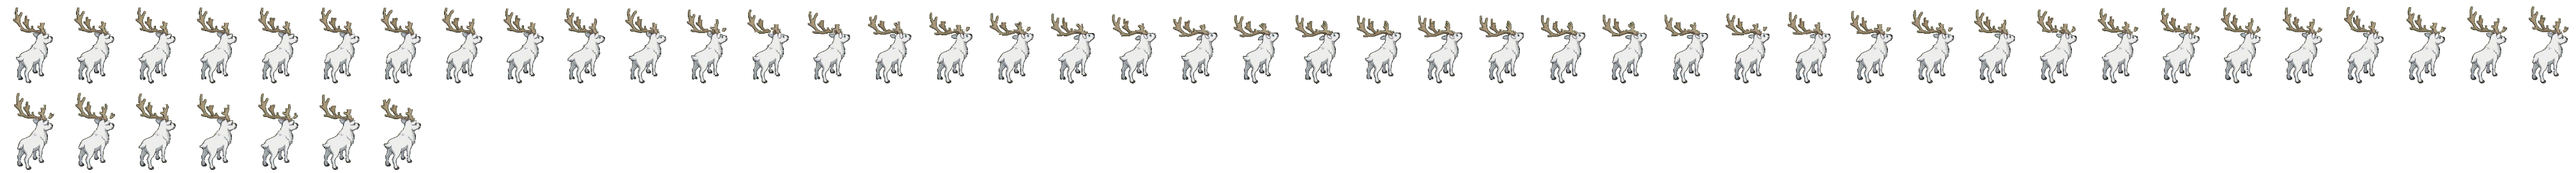
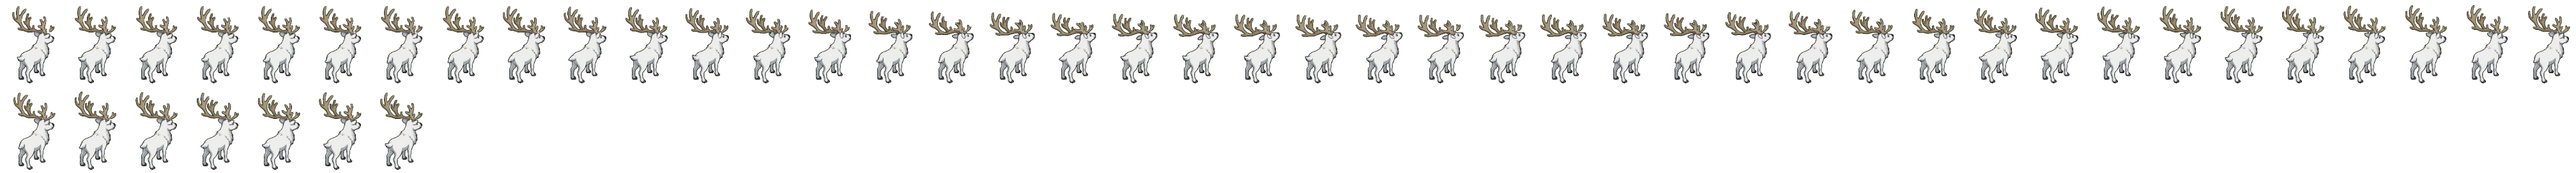
Weißes Rentier mit ganzem Geweih, Glastür zum Pinguinbecken vom Weg, Herden mit mehr Abstand und Weg um den Teich, Buden bringen weniger Herzen

Changed region(s): [[0.0, 0.0294, 1.0, 0.4706], [0.0, 0.5588, 0.1875, 0.9706]]

diff --git a/src/animals/penLife.js b/src/animals/penLife.js
@@ -1,7 +1,7 @@
 import Phaser from 'phaser';
 import { blockedAt } from '../world/collision.js';
 import { charAt, objectAt } from '../world/map.js';
-import { tileToWorld } from '../world/iso.js';
+import { tileToWorld, worldToTile } from '../world/iso.js';
 
 // Leben im Gehege (docs/plan-gehege-leben.md, Schritt 1): Lieblingsplätze, Herden, Ruhephasen und kleine Momente
 // (hüpfen, rennen, schütteln, trinken). Nur Tweens und vorhandene Bilder, kein Bonus, nur zum Anschauen.
@@ -19,6 +19,8 @@ const SHAKE = new Set(['sheep', 'goat', 'pig', 'cow', 'deer', 'antelope', 'zebra
 const BUSY = ['digging', 'sit', 'grazing', 'sleeping', 'jumping', 'tree', 'eating', 'drinking', 'dozing', 'perched', 'flying', 'penFlight', 'penClimb', 'penDrink', 'penPile', 'mudSpot', 'lick', 'noseBall', 'fly', 'trip', 'jump', 'plop', 'running', 'scared', 'toPerch', 'bed'];
 
 const HERD_R = 70; // so weit (Kachelmaß, y doppelt) darf sich ein Herdentier vom Leittier entfernen
+const HERD_SPACE = 34; // so viel Abstand (Kachelmaß, y doppelt) halten Herdentiere im Stehen mindestens zueinander
+const HERD_SLOT = [36, 62]; // Abstand des eigenen Platzes ums Leittier (jedes Tier hat seine Richtung, siehe herdSlot)
 const BABY_R = 34; // Tierbaby bleibt dicht bei einem Erwachsenen
 const SPOT_CHANCE = 0.5; // so oft geht ein Tier zu einem Lieblingsplatz statt irgendwohin
 const SPOT_REST = 1.8; // am Lieblingsplatz so viel länger stehen
@@ -139,6 +141,67 @@ function goToward(a, x, y, maxTime) {
   a.wanderTime = Math.max(0.3, Math.min(maxTime, d / a.kind.speed));
 }
 
+// eigener Platz eines Herdentiers ums Leittier (Richtung und Abstand, bleibt für das Tier gleich)
+function herdSlot(a) {
+  return (a.herdSlot ??= { ang: Math.random() * Math.PI * 2, r: Phaser.Math.Between(...HERD_SLOT) });
+}
+
+// kommt es in gerader Linie hin (alle 12 Pixel geprüft)?
+function clearLine(a, x, y) {
+  const d = Math.hypot(x - a.x, y - a.y);
+  const n = Math.ceil(d / 12);
+  for (let i = 1; i < n; i++) if (a.blocked(a.x + ((x - a.x) * i) / n, a.y + ((y - a.y) * i) / n)) return false;
+  return true;
+}
+
+// nächster Zwischenpunkt auf dem Weg durchs Gehege (Breitensuche über die Kacheln, auf denen es laufen darf): die
+// fernste Kachel des Wegs, die es noch in gerader Linie erreicht; null, wenn es keinen Weg gibt
+const PATH_MAX = 1500; // so viele Kacheln höchstens absuchen (Tablet)
+function waypoint(a, x, y) {
+  const from = worldToTile(a.x, a.y);
+  const to = worldToTile(x, y);
+  const key = (t) => t.tx + ',' + t.ty;
+  const prev = new Map([[key(from), null]]);
+  const queue = [from];
+  let found = null;
+  for (let i = 0; i < queue.length && i < PATH_MAX; i++) {
+    const t = queue[i];
+    if (t.tx === to.tx && t.ty === to.ty) {
+      found = t;
+      break;
+    }
+    for (const [dx, dy] of [[1, 0], [-1, 0], [0, 1], [0, -1]]) {
+      const n = { tx: t.tx + dx, ty: t.ty + dy };
+      const k = key(n);
+      if (prev.has(k)) continue;
+      const w = tileToWorld(n.tx, n.ty);
+      if (a.blocked(w.x, w.y) && !(n.tx === to.tx && n.ty === to.ty)) continue;
+      prev.set(k, t);
+      queue.push(n);
+    }
+  }
+  if (!found) return null;
+  const path = [];
+  for (let t = found; t; t = prev.get(key(t))) path.unshift(t);
+  for (let i = path.length - 1; i > 0; i--) {
+    const w = tileToWorld(path[i].tx, path[i].ty);
+    if (i === 1 || clearLine(a, w.x, w.y)) return w;
+  }
+  return null;
+}
+
+// steht ein anderes Tier der Herde zu dicht daneben? Dann dieses (sonst null)
+function crowdedBy(a) {
+  let best = null;
+  let bd = HERD_SPACE;
+  for (const b of a.scene.animals ?? []) {
+    if (b === a || b.species !== a.species || b.state !== 'penned' || b.enclosure !== a.enclosure || b.baby) continue;
+    const d = Math.hypot(b.x - a.x, (b.y - a.y) * 2);
+    if (d < bd) [best, bd] = [b, d];
+  }
+  return best;
+}
+
 function rest(a, time) {
   a.dirX = 0;
   a.dirY = 0;
@@ -176,9 +239,21 @@ export function penWander(a) {
       a.herdSeen = lead.herdTick;
       const d = Math.hypot(lead.x - a.x, (lead.y - a.y) * 2);
       if (d > HERD_R) {
-        goToward(a, lead.x + Phaser.Math.Between(-20, 20), lead.y + Phaser.Math.Between(-10, 10), 2.5);
+        // nicht alle auf denselben Fleck: jedes Tier zu seinem eigenen Platz rund ums Leittier
+        // (liegt etwas Großes dazwischen, z. B. der Teich: den Weg drumherum gehen, sonst bleibt es am Ufer hängen)
+        const s = herdSlot(a);
+        const tx = lead.x + Math.cos(s.ang) * s.r;
+        const ty = lead.y + (Math.sin(s.ang) * s.r) / 2;
+        const via = clearLine(a, lead.x, lead.y) ? null : waypoint(a, lead.x, lead.y);
+        if (via) goToward(a, via.x, via.y, 1.5);
+        else goToward(a, tx, ty, 2.5);
       } else if (!lead.dirX && !lead.dirY) {
-        rest(a, Math.max(0.5, lead.wanderTime + Phaser.Math.FloatBetween(-0.3, 1.2)));
+        // steht es zu dicht an einem anderen (z. B. alle am Wasser), ein Stück zur Seite rücken, sonst ausruhen
+        const c = crowdedBy(a);
+        if (c) {
+          const ang = c.x === a.x && c.y === a.y ? Math.random() * Math.PI * 2 : Math.atan2((a.y - c.y) * 2, a.x - c.x) + Phaser.Math.FloatBetween(-0.6, 0.6);
+          goToward(a, a.x + Math.cos(ang) * HERD_SPACE, a.y + (Math.sin(ang) * HERD_SPACE) / 2, 0.9);
+        } else rest(a, Math.max(0.5, lead.wanderTime + Phaser.Math.FloatBetween(-0.3, 1.2)));
       } else {
         const angle = Math.atan2(lead.dirY, lead.dirX) + Phaser.Math.FloatBetween(-0.35, 0.35);
         a.dirX = Math.cos(angle);

diff --git a/tools/prepare-characters.js b/tools/prepare-characters.js
@@ -1153,12 +1153,12 @@ const ANIMATIONS = [
   { src: 'Animation/Gorilla2 idle hinten.mp4', out: 'gorilla2_idle_back.png', every: 2, figureH: 81, frameW: 104, frameH: 96, feetY: 92 },
   // trommelt: Bild 0–14 anfangen, 15–27 durchgehend trommeln (Loop), 66–81 aufhören (Bild 65 gleicht Bild 15); siehe GORILLA2_DRUM in BootScene
   { src: 'Animation/Gorilla2 trommelt.mp4', out: 'gorilla2_drum.png', skip: [...Array(38).keys()].map((i) => i + 28).concat([...Array(13).keys()].map((i) => i + 82)), figureH: 82, frameW: 104, frameH: 96, feetY: 92 },
-  { src: 'Animation/Rentier2 läuft vorne.mp4', out: 'reindeer2_walk.png', dropShadowGreen: 18, dropGreyHalo: true, onlyFigure: true, keepParts: 0.004, despill: true, range: [13, 29], scale: 0.4, frameW: 96, frameH: 136, feetY: 131 },
-  { src: 'Animation/Rentier2 läuft hinten.mp4', out: 'reindeer2_walk_back.png', dropShadowGreen: 18, dropGreyHalo: true, onlyFigure: true, keepParts: 0.004, despill: true, range: [65, 91], scale: 0.4, frameW: 96, frameH: 136, feetY: 131 },
-  { src: 'Animation/Rentier2 rennt vorne.mp4', out: 'reindeer2_run.png', dropShadowGreen: 18, dropGreyHalo: true, onlyFigure: true, keepParts: 0.004, despill: true, range: [46, 59], scale: 0.4, frameW: 96, frameH: 136, feetY: 131 },
-  { src: 'Animation/Rentier2 rennt hinten.mp4', out: 'reindeer2_run_back.png', dropShadowGreen: 18, dropGreyHalo: true, onlyFigure: true, keepParts: 0.004, despill: true, range: [67, 78], scale: 0.4, frameW: 96, frameH: 136, feetY: 131 },
-  { src: 'Animation/Rentier2 idle vorne.mp4', out: 'reindeer2_idle.png', dropShadowGreen: 18, dropGreyHalo: true, onlyFigure: true, keepParts: 0.004, despill: true, every: 2, scale: 0.4, frameW: 96, frameH: 136, feetY: 131 },
-  { src: 'Animation/Rentier2 idle hinten.mp4', out: 'reindeer2_idle_back.png', dropShadowGreen: 18, dropGreyHalo: true, onlyFigure: true, keepParts: 0.004, despill: true, every: 2, scale: 0.4, frameW: 96, frameH: 136, feetY: 131 },
+  { src: 'Animation/Rentier2 läuft vorne.mp4', out: 'reindeer2_walk.png', dropShadowGreen: 18, onlyFigure: true, keepParts: 0.004, despill: 'edges', range: [13, 29], scale: 0.4, frameW: 96, frameH: 136, feetY: 131 },
+  { src: 'Animation/Rentier2 läuft hinten.mp4', out: 'reindeer2_walk_back.png', dropShadowGreen: 18, onlyFigure: true, keepParts: 0.004, despill: 'edges', range: [65, 91], scale: 0.4, frameW: 96, frameH: 136, feetY: 131 },
+  { src: 'Animation/Rentier2 rennt vorne.mp4', out: 'reindeer2_run.png', dropShadowGreen: 18, onlyFigure: true, keepParts: 0.004, despill: 'edges', range: [46, 59], scale: 0.4, frameW: 96, frameH: 136, feetY: 131 },
+  { src: 'Animation/Rentier2 rennt hinten.mp4', out: 'reindeer2_run_back.png', dropShadowGreen: 18, onlyFigure: true, keepParts: 0.004, despill: 'edges', range: [67, 78], scale: 0.4, frameW: 96, frameH: 136, feetY: 131 },
+  { src: 'Animation/Rentier2 idle vorne.mp4', out: 'reindeer2_idle.png', dropShadowGreen: 18, onlyFigure: true, keepParts: 0.004, despill: 'edges', every: 2, scale: 0.4, frameW: 96, frameH: 136, feetY: 131 },
+  { src: 'Animation/Rentier2 idle hinten.mp4', out: 'reindeer2_idle_back.png', dropShadowGreen: 18, onlyFigure: true, keepParts: 0.004, despill: 'edges', every: 2, scale: 0.4, frameW: 96, frameH: 136, feetY: 131 },
   // Zwergflusspferd, Pinselohrschwein, Fischertukan: Rahmen und Figurhöhe wie beim normalen Tier (das Zwergflusspferd
   // verkleinert das Spiel selbst, PYGMY_SCALE in Hippo.js). Überall der kürzeste nahtlose Loop (tools/find-loop.py),
   // auch beim Stehen: alle Bilder, aber langsam abgespielt (VIDEO_RATE in BootScene). Nilpferd läuft: Videos ohne Loop,
@@ -1220,7 +1220,8 @@ const ANIMATIONS = [
 // darkShadow: dunkelgrüne Schattenreste am Rand der Figur weg (siehe readVideo);
 // dropGreyHalo: halb durchsichtiges Dunkelgrau ohne Rotstich weg (Schatten, Rand eines Lichtscheins; Schneeleopard von hinten);
 // onlyFigure: Grünstichiges weg und je Bild nur das größte zusammenhängende Stück behalten (z. B. ohne die Atemwolke);
-// despill: grünen Schimmer auf hellem Fell neutralisieren, statt die Pixel wegzuwerfen (weißes Rentier);
+// despill: grünen Schimmer auf hellem Fell neutralisieren, statt die Pixel wegzuwerfen; 'edges': auch an dunkleren,
+// halb durchsichtigen Rändern (Geweihspitzen des weißen Rentiers; dort ohne dropGreyHalo, das sie sonst wegnimmt);
 // keepParts: dazu auch Stücke ab diesem Anteil am größten (Geweihhälfte am dünnen Steg, Rentier);
 // dropSteel: neutral graue, helle Pixel weg (eine Messerklinge; Kleidung und Fell sind wärmer getönt), den Umriss danach
 // entfernt onlyFigure
@@ -1322,7 +1323,7 @@ function loadGrid({ src, cols, rows, count, range, every = 1, skip = [], mirror 
     // dropShadowGreen und onlyFigure grünstichige Pixel wegwerfen; dunkelgrüne Schattenreste (wenig Rot/Blau) bleiben grün
     for (let k = 0; k < data.length; k += 4) {
       const rb = Math.max(data[k], data[k + 2]);
-      if (data[k + 3] && rb >= 110 && data[k + 1] > rb) data[k + 1] = rb;
+      if (data[k + 3] && (rb >= 110 || (despill === 'edges' && data[k + 1] - rb < 40)) && data[k + 1] > rb) data[k + 1] = rb;
     }
   }
   if (dropShadowGreen !== undefined) {

diff --git a/src/world/shops.js b/src/world/shops.js
@@ -10,13 +10,14 @@ import { game } from '../state.js';
 import { tr } from '../i18n.js';
 import { LEVELS, PARK_LEVELS } from './levels.js';
 
+// hearts: je Verkauf (28.11.2026 halbiert: der Eisstand allein brachte mehr als doppelt so viel wie das beste Tier)
 // stand/seller/items: Bilder (Bude, Verkäufer als 72×116-Bildstreifen, Snack in der Hand); icon für Statistik und Tafel
 export const SHOPS = [
-  { id: 'icecream', name: tr('Eisstand', 'Ice Cream Stand'), cost: 40, hearts: 2, icon: '🍦', stand: 'icecream_stand', seller: 'icecream_seller', items: ['icecream', 'icecream2', 'icecream3'] },
-  { id: 'popcorn', name: tr('Popcorn', 'Popcorn'), cost: 80, hearts: 2, icon: '🍿', stand: 'popcorn_stand', seller: 'popcorn_seller', items: ['popcorn'] },
-  { id: 'lemonade', name: tr('Limonade', 'Lemonade'), cost: 100, hearts: 2, icon: '🍋', stand: 'lemonade_stand', seller: 'lemonade_seller', items: ['lemonade'] },
-  { id: 'cottoncandy', name: tr('Zuckerwatte', 'Cotton Candy'), cost: 120, hearts: 3, icon: '🍭', stand: 'cottoncandy_stand', seller: 'cottoncandy_seller', items: ['cottoncandy'], blueprint: true },
-  { id: 'pretzel', name: tr('Brezeln', 'Pretzels'), cost: 150, hearts: 3, icon: '🥨', stand: 'pretzel_stand', seller: 'pretzel_seller', items: ['pretzel'], blueprint: true },
+  { id: 'icecream', name: tr('Eisstand', 'Ice Cream Stand'), cost: 40, hearts: 1, icon: '🍦', stand: 'icecream_stand', seller: 'icecream_seller', items: ['icecream', 'icecream2', 'icecream3'] },
+  { id: 'popcorn', name: tr('Popcorn', 'Popcorn'), cost: 80, hearts: 1, icon: '🍿', stand: 'popcorn_stand', seller: 'popcorn_seller', items: ['popcorn'] },
+  { id: 'lemonade', name: tr('Limonade', 'Lemonade'), cost: 100, hearts: 1, icon: '🍋', stand: 'lemonade_stand', seller: 'lemonade_seller', items: ['lemonade'] },
+  { id: 'cottoncandy', name: tr('Zuckerwatte', 'Cotton Candy'), cost: 120, hearts: 2, icon: '🍭', stand: 'cottoncandy_stand', seller: 'cottoncandy_seller', items: ['cottoncandy'], blueprint: true },
+  { id: 'pretzel', name: tr('Brezeln', 'Pretzels'), cost: 150, hearts: 2, icon: '🥨', stand: 'pretzel_stand', seller: 'pretzel_seller', items: ['pretzel'], blueprint: true },
   // Marktstand (Andres Bild, tools/deco-stand.py): 2×2 Kacheln, ohne Verkäufer-Figur und ohne Snack in der Hand
   { id: 'souvenir', name: tr('Blumen & Andenken', 'Flowers & Souvenirs'), cost: 120, hearts: 1, icon: '🌸', stand: 'deco_stand', seller: null, items: [], size: 2, originY: 0.778, scale: 1 },
 ];
@@ -42,7 +43,7 @@ export const sourceDef = (id) => shopDef(id) ?? (id === TEA.id ? TEA : id === WH
 // so viele Sachen kauft ein Besucher höchstens, und so wahrscheinlich geht er (beim Ankommen bzw. nach einem Gehege)
 // zu einer Bude, deren Sorte er noch nicht hatte
 export const MAX_BUYS = 2;
-export const SHOP_CHANCE = 0.4;
+export const SHOP_CHANCE = 0.3; // (war 0,4: zusammen mit 2 Herzen je Verkauf brachten die Buden mehr als jedes Tier)
 // solange man woanders ist: so oft kauft jeder Besucher pro Minute an jeder Bude seines Abschnitts
 export const AWAY_BUYS_PER_VISITOR_MINUTE = 0.25;
 

diff --git a/src/scenes/GardenScene.js b/src/scenes/GardenScene.js
@@ -1794,7 +1794,7 @@ export default class GardenScene extends Phaser.Scene {
       if (data.built) {
         const def = sourceDef(builtOn(data.built));
         if (def === WHEEL) this.time.delayedCall(350, () => this.showToast(tr(`${def.icon} Das Riesenrad dreht sich! Jede Fahrt bringt ${def.hearts} Herzen, und es kommen mehr Besucher.`, `${def.icon} The Ferris wheel is turning! Every ride brings ${def.hearts} hearts, and more visitors come.`)));
-        else if (def) this.time.delayedCall(350, () => this.showToast(tr(`${def.icon} ${def.name} ist fertig! Jeder Verkauf bringt ${def.hearts} Herzen.`, `${def.icon} ${def.name} is open! Every sale brings ${def.hearts} hearts.`)));
+        else if (def) this.time.delayedCall(350, () => this.showToast(tr(`${def.icon} ${def.name} ist fertig! Jeder Verkauf bringt ${def.hearts === 1 ? 'ein Herz' : `${def.hearts} Herzen`}.`, `${def.icon} ${def.name} is open! Every sale brings ${def.hearts === 1 ? 'one heart' : `${def.hearts} hearts`}.`)));
         this.time.delayedCall(1200, () => this.visitors?.sendToShop(data.built)); // gleich kauft jemand ein
       }
       if (data.seasonNote) this.showToast(data.seasonNote); // Wetterwechsel in der Savanne
@@ -5002,7 +5002,7 @@ export default class GardenScene extends Phaser.Scene {
       name: def.name,
       image: def.stand,
       cost: price(def.cost),
-      text: tr(`Jeder Verkauf bringt ${def.hearts} Herzen.`, `Every sale brings ${def.hearts} hearts.`),
+      text: tr(`Jeder Verkauf bringt ${def.hearts === 1 ? 'ein Herz' : `${def.hearts} Herzen`}.`, `Every sale brings ${def.hearts === 1 ? 'one heart' : `${def.hearts} hearts`}.`),
       blocked: storedBooths(LEVEL_ID).some((b) => b.kind === def.id)
         ? tr('liegt in der Bauen-Leiste', 'in your build bar')
         : hasShop(LEVEL_ID, def.id)
@@ -5543,7 +5543,7 @@ export default class GardenScene extends Phaser.Scene {
         name: def.name,
         icon: def.icon,
         cost: price(def.cost),
-        text: tr(`Jeder Verkauf bringt ${def.hearts} Herzen.`, `Every sale brings ${def.hearts} hearts.`),
+        text: tr(`Jeder Verkauf bringt ${def.hearts === 1 ? 'ein Herz' : `${def.hearts} Herzen`}.`, `Every sale brings ${def.hearts === 1 ? 'one heart' : `${def.hearts} hearts`}.`),
         blocked: here
           ? tr('steht hier schon', 'already in this area')
           : !where.length

diff --git a/src/world/levels.js b/src/world/levels.js
@@ -1117,7 +1117,7 @@ const PARK_ICE_ROWS = [
   'ṩ].Ȓ.....ȓ]#Ǩwww.......ƷȞ.....ṖǨ#F.........ṩ',
   'ṩ[[[[[[[[[[#Ǩwww.Ê.ȓ...Ʒ.......Ǩ#..........ṩ',
   'ṩ..........#Ǩ.........ȒƷ..ȓ....Ǩ#..........ṩ',
-  'ṩ..........#ǩǯǯǯǯǯǯǯǯǯǯǯF....Ṗ.Ǩ#..........ṩ',
+  'ṩ..........#ǩǯǯǯGǯǯǯǯǯǯǯF....Ṗ.Ǩ#..........ṩ', // (Glastür zum Pinguinbecken vom Weg aus, neben dem Schild)
   'ṩ..........#G##############....Ǩ#[[[[[[[[[[ṩ',
   'ṩ..........#G##############....Ǩ#]w.......]ṩ',
   'ṩ......F...#Ǩ....ȓ..##......Ṗ..Ǩ#]w.......]ṩ',
